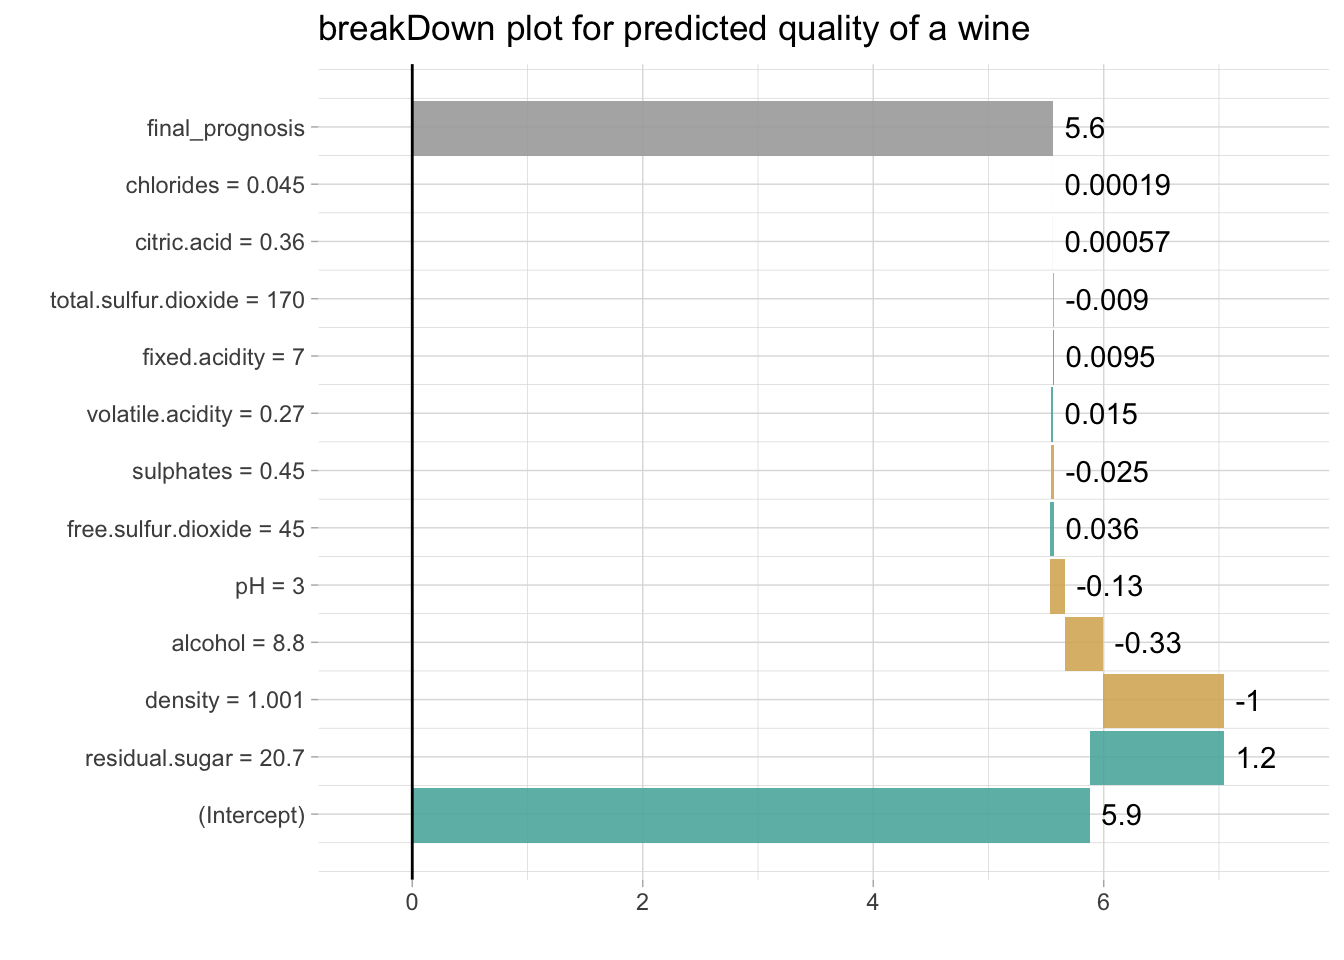
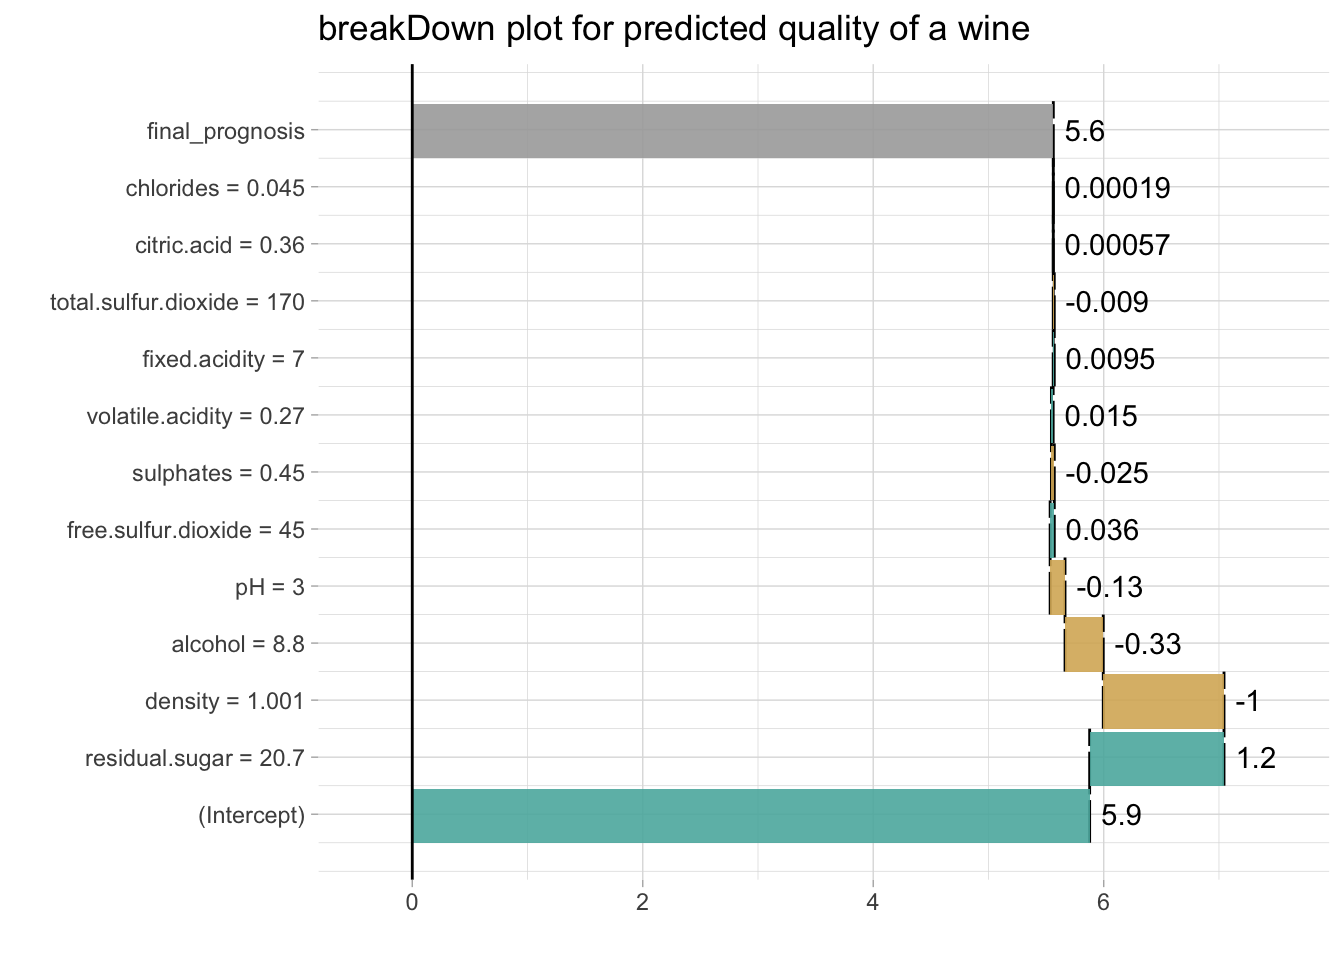
added lines

diff --git a/docs/articles/break_ranger.html b/docs/articles/break_ranger.html
@@ -101,11 +101,11 @@ model &lt;-<span class="st"> </span><span class="kw"><a href="http://www.rdocume
 <p>Variable importance for all trees in the forest.</p>
 <div class="sourceCode"><pre class="sourceCode r"><code class="sourceCode r"><span class="kw"><a href="http://www.rdocumentation.org/packages/ranger/topics/importance.ranger">importance</a></span>(model)
 <span class="co">#&gt;    satisfaction_level       last_evaluation        number_project </span>
-<span class="co">#&gt;           1828.254621            618.437884            942.880374 </span>
+<span class="co">#&gt;           1786.046899            618.803617            987.848183 </span>
 <span class="co">#&gt;  average_montly_hours    time_spend_company         Work_accident </span>
-<span class="co">#&gt;            764.866356            977.718562             28.382306 </span>
+<span class="co">#&gt;            752.309013            989.511008             27.751059 </span>
 <span class="co">#&gt; promotion_last_5years                 sales                salary </span>
-<span class="co">#&gt;              5.152408             41.323609             30.812704</span></code></pre></div>
+<span class="co">#&gt;              4.687921             41.615393             29.416582</span></code></pre></div>
 <p>But how to understand which factors drive predictions for a single observation?</p>
 <p>With the <code>breakDown</code> package!</p>
 <p>Explanations for the trees votings.</p>
@@ -113,16 +113,16 @@ model &lt;-<span class="st"> </span><span class="kw"><a href="http://www.rdocume
 explain_<span class="dv">1</span> &lt;-<span class="st"> </span><span class="kw"><a href="../reference/broken.html">broken</a></span>(model, HR_data[<span class="dv">1159</span>,])
 explain_<span class="dv">1</span>
 <span class="co">#&gt;                            contribution</span>
-<span class="co">#&gt; time_spend_company = 2           0.0480</span>
-<span class="co">#&gt; satisfaction_level = 0.57        0.0460</span>
-<span class="co">#&gt; average_montly_hours = 219       0.0430</span>
-<span class="co">#&gt; number_project = 4               0.0410</span>
-<span class="co">#&gt; last_evaluation = 0.85           0.0380</span>
-<span class="co">#&gt; Work_accident = 1                0.0310</span>
-<span class="co">#&gt; sales = sales                    0.0220</span>
+<span class="co">#&gt; time_spend_company = 2           0.0490</span>
+<span class="co">#&gt; satisfaction_level = 0.57        0.0440</span>
+<span class="co">#&gt; average_montly_hours = 219       0.0420</span>
+<span class="co">#&gt; last_evaluation = 0.85           0.0400</span>
+<span class="co">#&gt; number_project = 4               0.0380</span>
+<span class="co">#&gt; Work_accident = 1                0.0280</span>
+<span class="co">#&gt; sales = sales                    0.0210</span>
 <span class="co">#&gt; salary = medium                  0.0160</span>
-<span class="co">#&gt; promotion_last_5years = 0        0.0034</span>
-<span class="co">#&gt; final_prognosis                  0.2900</span>
+<span class="co">#&gt; promotion_last_5years = 0        0.0031</span>
+<span class="co">#&gt; final_prognosis                  0.2800</span>
 <span class="co">#&gt; baseline:  0.5</span>
 <span class="kw">plot</span>(explain_<span class="dv">1</span>) <span class="op">+</span><span class="st"> </span><span class="kw"><a href="http://www.rdocumentation.org/packages/ggplot2/topics/scale_continuous">scale_y_continuous</a></span>( <span class="dt">limits =</span> <span class="kw">c</span>(<span class="dv">0</span>,<span class="dv">1</span>), <span class="dt">name =</span> <span class="st">"fraction of trees"</span>, <span class="dt">expand =</span> <span class="kw">c</span>(<span class="dv">0</span>,<span class="dv">0</span>))
 <span class="co">#&gt; Scale for 'y' is already present. Adding another scale for 'y', which</span>
@@ -132,16 +132,16 @@ explain_<span class="dv">1</span>
 explain_<span class="dv">1</span> &lt;-<span class="st"> </span><span class="kw"><a href="../reference/broken.html">broken</a></span>(model, HR_data[<span class="dv">10099</span>,])
 explain_<span class="dv">1</span>
 <span class="co">#&gt;                            contribution</span>
-<span class="co">#&gt; time_spend_company = 5           -0.041</span>
-<span class="co">#&gt; satisfaction_level = 0.73        -0.041</span>
-<span class="co">#&gt; average_montly_hours = 266       -0.040</span>
-<span class="co">#&gt; last_evaluation = 0.83           -0.040</span>
-<span class="co">#&gt; number_project = 5               -0.039</span>
-<span class="co">#&gt; salary = low                     -0.024</span>
-<span class="co">#&gt; Work_accident = 0                -0.019</span>
-<span class="co">#&gt; sales = sales                    -0.017</span>
-<span class="co">#&gt; promotion_last_5years = 0        -0.010</span>
-<span class="co">#&gt; final_prognosis                  -0.270</span>
+<span class="co">#&gt; time_spend_company = 5           -0.050</span>
+<span class="co">#&gt; average_montly_hours = 266       -0.050</span>
+<span class="co">#&gt; satisfaction_level = 0.73        -0.050</span>
+<span class="co">#&gt; last_evaluation = 0.83           -0.049</span>
+<span class="co">#&gt; number_project = 5               -0.049</span>
+<span class="co">#&gt; salary = low                     -0.026</span>
+<span class="co">#&gt; Work_accident = 0                -0.024</span>
+<span class="co">#&gt; sales = sales                    -0.019</span>
+<span class="co">#&gt; promotion_last_5years = 0        -0.013</span>
+<span class="co">#&gt; final_prognosis                  -0.330</span>
 <span class="co">#&gt; baseline:  0.5</span>
 <span class="kw">plot</span>(explain_<span class="dv">1</span>) <span class="op">+</span><span class="st"> </span><span class="kw"><a href="http://www.rdocumentation.org/packages/ggplot2/topics/scale_continuous">scale_y_continuous</a></span>( <span class="dt">limits =</span> <span class="kw">c</span>(<span class="dv">0</span>,<span class="dv">1</span>), <span class="dt">name =</span> <span class="st">"fraction of trees"</span>, <span class="dt">expand =</span> <span class="kw">c</span>(<span class="dv">0</span>,<span class="dv">0</span>))
 <span class="co">#&gt; Scale for 'y' is already present. Adding another scale for 'y', which</span>

diff --git a/docs/articles/break_glm.html b/docs/articles/break_glm.html
@@ -100,37 +100,37 @@
 <p>With the <code>breakDown</code> package!</p>
 <p>Explanations for the linear predictor.</p>
 <div class="sourceCode"><pre class="sourceCode r"><code class="sourceCode r"><span class="kw">library</span>(ggplot2)
-explain_<span class="dv">1</span> &lt;-<span class="st"> </span><span class="kw"><a href="../reference/broken.html">broken</a></span>(model, HR_data[<span class="dv">1159</span>,])
+explain_<span class="dv">1</span> &lt;-<span class="st"> </span><span class="kw"><a href="../reference/broken.html">broken</a></span>(model, HR_data[<span class="dv">11</span>,])
 explain_<span class="dv">1</span>
 <span class="co">#&gt;                            contribution</span>
 <span class="co">#&gt; (Intercept)                      -1.600</span>
-<span class="co">#&gt; Work_accident = 1                -1.300</span>
-<span class="co">#&gt; time_spend_company = 2           -0.400</span>
-<span class="co">#&gt; satisfaction_level = 0.57         0.180</span>
-<span class="co">#&gt; salary = medium                  -0.140</span>
-<span class="co">#&gt; last_evaluation = 0.85            0.098</span>
-<span class="co">#&gt; average_montly_hours = 219        0.080</span>
-<span class="co">#&gt; number_project = 4               -0.062</span>
+<span class="co">#&gt; satisfaction_level = 0.45         0.670</span>
+<span class="co">#&gt; number_project = 2                0.570</span>
+<span class="co">#&gt; salary = low                      0.390</span>
+<span class="co">#&gt; average_montly_hours = 135       -0.290</span>
+<span class="co">#&gt; Work_accident = 0                 0.220</span>
+<span class="co">#&gt; time_spend_company = 3           -0.130</span>
+<span class="co">#&gt; last_evaluation = 0.54           -0.130</span>
 <span class="co">#&gt; promotion_last_5years = 0         0.030</span>
 <span class="co">#&gt; sales = sales                     0.014</span>
-<span class="co">#&gt; final_prognosis                  -3.100</span>
+<span class="co">#&gt; final_prognosis                  -0.260</span>
 <span class="co">#&gt; baseline:  0</span>
 <span class="kw">plot</span>(explain_<span class="dv">1</span>) <span class="op">+</span><span class="st"> </span><span class="kw"><a href="http://www.rdocumentation.org/packages/ggplot2/topics/labs">ggtitle</a></span>(<span class="st">"breakDown plot for linear predictors"</span>)</code></pre></div>
 <p><img src="break_glm_files/figure-html/unnamed-chunk-3-1.png" width="672"></p>
 <p>Explanations for the probability with intercept set as an origin.</p>
-<div class="sourceCode"><pre class="sourceCode r"><code class="sourceCode r">explain_<span class="dv">1</span> &lt;-<span class="st"> </span><span class="kw"><a href="../reference/broken.html">broken</a></span>(model, HR_data[<span class="dv">1159</span>,], <span class="dt">baseline =</span> <span class="st">"intercept"</span>)
+<div class="sourceCode"><pre class="sourceCode r"><code class="sourceCode r">explain_<span class="dv">1</span> &lt;-<span class="st"> </span><span class="kw"><a href="../reference/broken.html">broken</a></span>(model, HR_data[<span class="dv">11</span>,], <span class="dt">baseline =</span> <span class="st">"intercept"</span>)
 explain_<span class="dv">1</span>
 <span class="co">#&gt;                            contribution</span>
-<span class="co">#&gt; Work_accident = 1                -1.300</span>
-<span class="co">#&gt; time_spend_company = 2           -0.400</span>
-<span class="co">#&gt; satisfaction_level = 0.57         0.180</span>
-<span class="co">#&gt; salary = medium                  -0.140</span>
-<span class="co">#&gt; last_evaluation = 0.85            0.098</span>
-<span class="co">#&gt; average_montly_hours = 219        0.080</span>
-<span class="co">#&gt; number_project = 4               -0.062</span>
+<span class="co">#&gt; satisfaction_level = 0.45         0.670</span>
+<span class="co">#&gt; number_project = 2                0.570</span>
+<span class="co">#&gt; salary = low                      0.390</span>
+<span class="co">#&gt; average_montly_hours = 135       -0.290</span>
+<span class="co">#&gt; Work_accident = 0                 0.220</span>
+<span class="co">#&gt; time_spend_company = 3           -0.130</span>
+<span class="co">#&gt; last_evaluation = 0.54           -0.130</span>
 <span class="co">#&gt; promotion_last_5years = 0         0.030</span>
 <span class="co">#&gt; sales = sales                     0.014</span>
-<span class="co">#&gt; final_prognosis                  -1.500</span>
+<span class="co">#&gt; final_prognosis                   1.300</span>
 <span class="co">#&gt; baseline:  -1.601457</span>
 <span class="kw">plot</span>(explain_<span class="dv">1</span>, 
      <span class="dt">trans =</span> <span class="cf">function</span>(x) <span class="kw">exp</span>(x)<span class="op">/</span>(<span class="dv">1</span><span class="op">+</span><span class="kw">exp</span>(x))) <span class="op">+</span><span class="st"> </span><span class="kw"><a href="http://www.rdocumentation.org/packages/ggplot2/topics/labs">ggtitle</a></span>(<span class="st">"Predicted probability of leaving the company"</span>)<span class="op">+</span><span class="st"> </span><span class="kw"><a href="http://www.rdocumentation.org/packages/ggplot2/topics/scale_continuous">scale_y_continuous</a></span>( <span class="dt">limits =</span> <span class="kw">c</span>(<span class="dv">0</span>,<span class="dv">1</span>), <span class="dt">name =</span> <span class="st">"probability"</span>, <span class="dt">expand =</span> <span class="kw">c</span>(<span class="dv">0</span>,<span class="dv">0</span>))

diff --git a/docs/reference/broken.glm.html b/docs/reference/broken.glm.html
@@ -144,7 +144,7 @@
 <span class='no'>new_observation</span> <span class='kw'>&lt;-</span> <span class='no'>wine</span>[<span class='fl'>1</span>,]
 <span class='no'>br</span> <span class='kw'>&lt;-</span> <span class='fu'><a href='broken.html'>broken</a></span>(<span class='no'>modelg</span>, <span class='no'>new_observation</span>)
 <span class='no'>logit</span> <span class='kw'>&lt;-</span> <span class='kw'>function</span>(<span class='no'>x</span>) <span class='fu'>exp</span>(<span class='no'>x</span>)/(<span class='fl'>1</span>+<span class='fu'>exp</span>(<span class='no'>x</span>))
-<span class='fu'>plot</span>(<span class='no'>br</span>, <span class='no'>logit</span>)</div><div class='img'><img src='broken.glm-19.png' alt='' width='700' height='432.632880098887' /></div><div class='input'>
+<span class='fu'>plot</span>(<span class='no'>br</span>, <span class='no'>logit</span>)</div><div class='img'><img src='broken.glm-28.png' alt='' width='700' height='432.632880098887' /></div><div class='input'>
 <span class='co'># example for HR_data</span>
 <span class='no'>model</span> <span class='kw'>&lt;-</span> <span class='fu'>glm</span>(<span class='no'>left</span>~<span class='no'>.</span>, <span class='kw'>data</span> <span class='kw'>=</span> <span class='no'>HR_data</span>, <span class='kw'>family</span> <span class='kw'>=</span> <span class='st'>"binomial"</span>)
 <span class='no'>explain_1</span> <span class='kw'>&lt;-</span> <span class='fu'><a href='broken.html'>broken</a></span>(<span class='no'>model</span>, <span class='no'>HR_data</span>[<span class='fl'>1</span>,])
@@ -160,7 +160,7 @@
 #&gt; promotion_last_5years = 0         0.030
 #&gt; sales = sales                     0.014
 #&gt; final_prognosis                   0.120
-#&gt; baseline:  0 </div><div class='input'><span class='fu'>plot</span>(<span class='no'>explain_1</span>)</div><div class='img'><img src='broken.glm-20.png' alt='' width='700' height='432.632880098887' /></div><div class='input'><span class='fu'>plot</span>(<span class='no'>explain_1</span>, <span class='kw'>trans</span> <span class='kw'>=</span> <span class='kw'>function</span>(<span class='no'>x</span>) <span class='fu'>exp</span>(<span class='no'>x</span>)/(<span class='fl'>1</span>+<span class='fu'>exp</span>(<span class='no'>x</span>)))</div><div class='img'><img src='broken.glm-21.png' alt='' width='700' height='432.632880098887' /></div><div class='input'>
+#&gt; baseline:  0 </div><div class='input'><span class='fu'>plot</span>(<span class='no'>explain_1</span>)</div><div class='img'><img src='broken.glm-29.png' alt='' width='700' height='432.632880098887' /></div><div class='input'><span class='fu'>plot</span>(<span class='no'>explain_1</span>, <span class='kw'>trans</span> <span class='kw'>=</span> <span class='kw'>function</span>(<span class='no'>x</span>) <span class='fu'>exp</span>(<span class='no'>x</span>)/(<span class='fl'>1</span>+<span class='fu'>exp</span>(<span class='no'>x</span>)))</div><div class='img'><img src='broken.glm-30.png' alt='' width='700' height='432.632880098887' /></div><div class='input'>
 </div></pre>
   </div>
   <div class="col-md-3 hidden-xs hidden-sm" id="sidebar">

diff --git a/docs/reference/plot.broken.html b/docs/reference/plot.broken.html
@@ -107,7 +107,9 @@
     
 
     <pre class="usage"><span class='co'># S3 method for broken</span>
-<span class='fu'>plot</span>(<span class='no'>x</span>, <span class='kw'>trans</span> <span class='kw'>=</span> <span class='no'>I</span>, <span class='no'>...</span>, <span class='kw'>add_contributions</span> <span class='kw'>=</span> <span class='fl'>TRUE</span>)</pre>
+<span class='fu'>plot</span>(<span class='no'>x</span>, <span class='kw'>trans</span> <span class='kw'>=</span> <span class='no'>I</span>, <span class='no'>...</span>, <span class='kw'>add_contributions</span> <span class='kw'>=</span> <span class='fl'>TRUE</span>,
+  <span class='kw'>vcolors</span> <span class='kw'>=</span> <span class='fu'>c</span>(<span class='kw'>`-1`</span> <span class='kw'>=</span> <span class='st'>"#d8b365"</span>, <span class='kw'>`0`</span> <span class='kw'>=</span> <span class='st'>"#f5f5f5"</span>, <span class='kw'>`1`</span> <span class='kw'>=</span> <span class='st'>"#5ab4ac"</span>, <span class='kw'>X</span> <span class='kw'>=</span>
+  <span class='st'>"darkgrey"</span>))</pre>
     
     <h2 class="hasAnchor" id="arguments"><a class="anchor" href="#arguments"></a> Arguments</h2>
     <table class="ref-arguments">
@@ -127,6 +129,10 @@
     <tr>
       <th>add_contributions</th>
       <td><p>shall variable contributions to be added on plot?</p></td>
+    </tr>
+    <tr>
+      <th>vcolors</th>
+      <td><p>named vector with colors</p></td>
     </tr>
     </table>
     

diff --git a/docs/reference/broken.ranger.html b/docs/reference/broken.ranger.html
@@ -157,7 +157,7 @@
 #&gt; Work_accident = 0                0.0016
 #&gt; final_prognosis                  0.0300
 #&gt; baseline:  0.5 </div><div class='input'><span class='fu'>plot</span>(<span class='no'>explain_1</span>) + <span class='fu'>ggtitle</span>(<span class='st'>"breakDown plot for linear predictors of leaving the company"</span>)+ <span class='fu'>scale_y_continuous</span>( <span class='kw'>limits</span> <span class='kw'>=</span> <span class='fu'>c</span>(<span class='fl'>0</span>,<span class='fl'>1</span>), <span class='kw'>name</span> <span class='kw'>=</span> <span class='st'>"fraction of trees"</span>, <span class='kw'>expand</span> <span class='kw'>=</span> <span class='fu'>c</span>(<span class='fl'>0.1</span>,<span class='fl'>0.1</span>))</div><div class='output co'>#&gt; <span class='message'>Scale for 'y' is already present. Adding another scale for 'y', which will</span>
-#&gt; <span class='message'>replace the existing scale.</span></div><div class='img'><img src='broken.ranger-2.png' alt='' width='700' height='432.632880098887' /></div><div class='input'>
+#&gt; <span class='message'>replace the existing scale.</span></div><div class='img'><img src='broken.ranger-5.png' alt='' width='700' height='432.632880098887' /></div><div class='input'>
 </div></pre>
   </div>
   <div class="col-md-3 hidden-xs hidden-sm" id="sidebar">

diff --git a/docs/reference/broken.lm.html b/docs/reference/broken.lm.html
@@ -139,7 +139,7 @@
     <pre class="examples"><div class='input'><span class='no'>model</span> <span class='kw'>&lt;-</span> <span class='fu'>lm</span>(<span class='no'>Sepal.Length</span>~<span class='no'>.</span>, <span class='kw'>data</span><span class='kw'>=</span><span class='no'>iris</span>)
 <span class='no'>new_observation</span> <span class='kw'>&lt;-</span> <span class='no'>iris</span>[<span class='fl'>1</span>,]
 <span class='no'>br</span> <span class='kw'>&lt;-</span> <span class='fu'><a href='broken.html'>broken</a></span>(<span class='no'>model</span>, <span class='no'>new_observation</span>)
-<span class='fu'>plot</span>(<span class='no'>br</span>)</div><div class='img'><img src='broken.lm-7.png' alt='' width='700' height='432.632880098887' /></div></pre>
+<span class='fu'>plot</span>(<span class='no'>br</span>)</div><div class='img'><img src='broken.lm-10.png' alt='' width='700' height='432.632880098887' /></div></pre>
   </div>
   <div class="col-md-3 hidden-xs hidden-sm" id="sidebar">
     <h2>Contents</h2>
